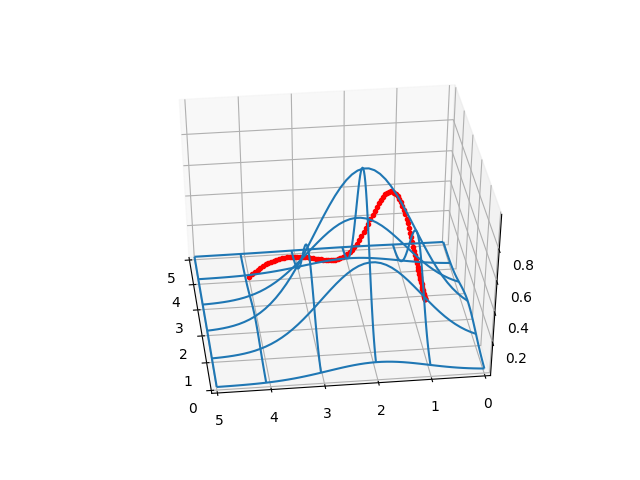
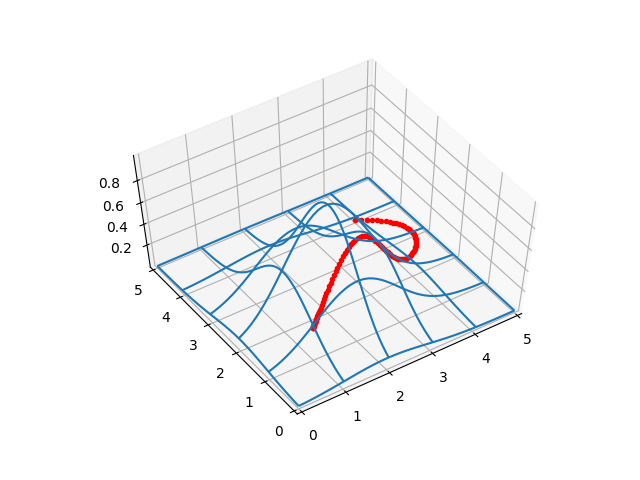
-

Changed region(s): [[0.1562, 0.125, 0.8438, 0.875], [0.75, 0.8125, 0.7812, 0.8438], [0.2812, 0.8438, 0.3125, 0.875]]

diff --git a/func_analysis/func_autograd/autograd_ile_optimizasyon.html b/func_analysis/func_autograd/autograd_ile_optimizasyon.html
@@ -30,7 +30,7 @@ almak pek çok alanda işimize yarar. Optimizasyon alanı bunların başında
 geliyor. Düşünürsek, eğer sembolik olarak türev alması çok çetrefil bir
 durum varsa, tasaya gerek yok; bir fonksiyonu kodlayabildiğimiz anda onun
 türevini de alabiliriz demektir.</p>
-<p><a href="https://nikstoyanov.me/post/2019-04-14-numerical-optimizations/">https://nikstoyanov.me/post/2019-04-14-numerical-optimizations/</a></p>
+<p><a href="https://nikstoyanov.me/post/2019-04-14-numerical-optimizations">https://nikstoyanov.me/post/2019-04-14-numerical-optimizations</a></p>
 <p><a href="https://rlhick.people.wm.edu/posts/mle-autograd.html">https://rlhick.people.wm.edu/posts/mle-autograd.html</a></p>
 <p><a href="http://kitchingroup.cheme.cmu.edu/blog/2018/11/03/Constrained-optimization-with-Lagrange-multipliers-and-autograd/">http://kitchingroup.cheme.cmu.edu/blog/2018/11/03/Constrained-optimization-with-Lagrange-multipliers-and-autograd/</a></p>
 <p><a href="http://louistiao.me/notes/visualizing-and-animating-optimization-algorithms-with-matplotlib/">http://louistiao.me/notes/visualizing-and-animating-optimization-algorithms-with-matplotlib/</a></p>

diff --git a/func_analysis/func_autograd/func_autograd.html b/func_analysis/func_autograd/func_autograd.html
@@ -30,7 +30,7 @@ almak pek çok alanda işimize yarar. Optimizasyon alanı bunların başında
 geliyor. Düşünürsek, eğer sembolik olarak türev alması çok çetrefil bir
 durum varsa, tasaya gerek yok; bir fonksiyonu kodlayabildiğimiz anda onun
 türevini de alabiliriz demektir.</p>
-<p><a href="https://nikstoyanov.me/post/2019-04-14-numerical-optimizations/">https://nikstoyanov.me/post/2019-04-14-numerical-optimizations/</a></p>
+<p><a href="https://nikstoyanov.me/post/2019-04-14-numerical-optimizations">https://nikstoyanov.me/post/2019-04-14-numerical-optimizations</a></p>
 <p><a href="https://rlhick.people.wm.edu/posts/mle-autograd.html">https://rlhick.people.wm.edu/posts/mle-autograd.html</a></p>
 <p><a href="http://kitchingroup.cheme.cmu.edu/blog/2018/11/03/Constrained-optimization-with-Lagrange-multipliers-and-autograd/">http://kitchingroup.cheme.cmu.edu/blog/2018/11/03/Constrained-optimization-with-Lagrange-multipliers-and-autograd/</a></p>
 <p><a href="http://louistiao.me/notes/visualizing-and-animating-optimization-algorithms-with-matplotlib/">http://louistiao.me/notes/visualizing-and-animating-optimization-algorithms-with-matplotlib/</a></p>

diff --git a/calc_multi/calc_multi_40_elev/paths.py b/calc_multi/calc_multi_40_elev/paths.py
@@ -1,4 +1,5 @@
-from autograd.numpy import sqrt, exp, nan, e, log, power, sum
+import autograd.numpy as anp
+#import sqrt, nan, e, log, power, sum
 from autograd import numpy as np
 from scipy import optimize
 import autograd
@@ -11,12 +12,12 @@ from matplotlib import cm
 def trapz(y, dx):
     vals = y[1:-1]
     vals = vals[vals>0.0]
-    return (y[0]+sum(vals*2.0)+y[-1])*(dx/2.0)
+    return (y[0]+anp.sum(vals*2.0)+y[-1])*(dx/2.0)
 
 def gfunc(x, y, offset=0.0):
     s1 = 2.2; x1 = 2.0; y1 = 2.0
-    tmp = -4.0 *log(2.0) * ((x-x1)**2.0+(y-y1)**2.0) / s1**2.0
-    g1 = np.array([power(e,_) if _ != nan else 0.0 for _ in tmp])
+    tmp = -4.0 *anp.log(2.0) * ((x-x1)**2.0+(y-y1)**2.0) / s1**2.0
+    g1 = np.array([anp.power(anp.e,_) if _ != anp.nan else 0.0 for _ in tmp])
     return g1+offset
 
 def pfunc(x, y):
@@ -74,7 +75,7 @@ def find_path(ex,ey,a0,b0,offset):
         b4 = ey - b0 - (b1+b2+b3)   
         t = np.linspace(0,1,100)
         tmp = b1 + 2.0*b2*t + 3.0*b3*t**2.0 - 112.0*t**3.0 + (a1 + 2.0*a2*t + 3.0*a3*t**2.0 - 65.2*t**3.0)**2.0
-        sq = [sqrt(_) if _ != nan else 0.0 for _ in tmp]
+        sq = [anp.sqrt(_) if _ != anp.nan else 0.0 for _ in tmp]
         x = a0 + a1*t + a2*t**2.0 + a3*t**3.0 + a4*t**4.0
         y = b0 + b1*t + b2*t**2.0 + b3*t**3.0 + b4*t**4.0
         x = np.array(x)
@@ -107,7 +108,7 @@ a1,a2,a3,b1,b2,b3 = res
 a4 = ex - a0 - (a1+a2+a3)
 b4 = ey - b0 - (b1+b2+b3)
 print (a0,a1,a2,a3,a4,b0,b1,b2,b3,b4)
-plot_surf_path(173,40,a0,a1,a2,a3,a4,b0,b1,b2,b3,b4)
+plot_surf_path(-124,58,a0,a1,a2,a3,a4,b0,b1,b2,b3,b4)
 plt.savefig('calc_multi_40_elev_04.png')
 #plt.show()
 
@@ -117,7 +118,7 @@ a1,a2,a3,b1,b2,b3 = res
 a4 = ex - a0 - (a1+a2+a3)
 b4 = ey - b0 - (b1+b2+b3)
 print (a0,a1,a2,a3,a4,b0,b1,b2,b3,b4)
-plot_surf_path(173,40,a0,a1,a2,a3,a4,b0,b1,b2,b3,b4)
+plot_surf_path(-124,58,a0,a1,a2,a3,a4,b0,b1,b2,b3,b4)
 plt.savefig('calc_multi_40_elev_05.png')
 #plt.show()
 
